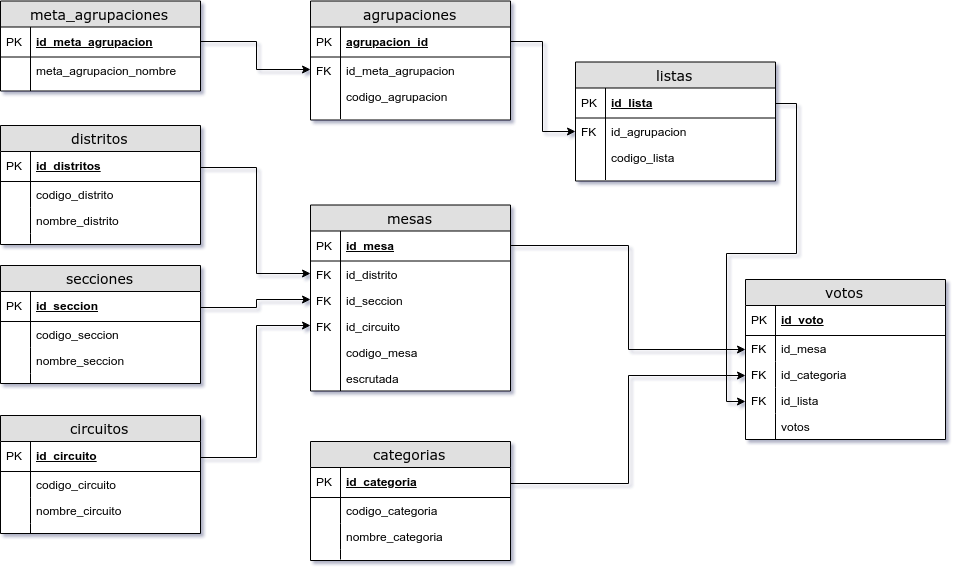
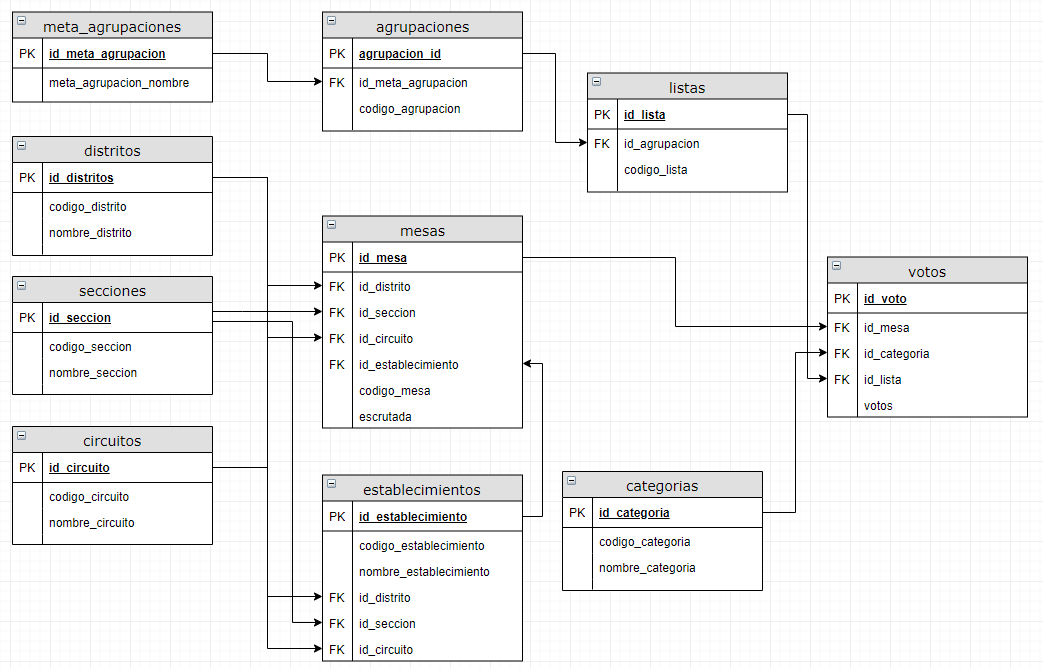
fix de controlar_mesa y README

Changed region(s): [[0.0, 0.0, 1.0, 1.0], [0.2727, 0.0, 0.8182, 0.3269], [0.2121, 0.6836, 0.2727, 0.7133]]

diff --git a/README.md b/README.md
@@ -14,11 +14,40 @@ Los datos están actualizados al `12/08/2019 05:03:06 (-03:00 UTC)` según infor
 
 **Importante**:
 
-Hay algunas inconsistencias en los datos, que en algún momento puede llamar la atención. Por empezar hay una inconsistencia entre las tres tablas de mesas descargadas del sitio oficial de los resultados:
+Hay algunas inconsistencias en los datos, que en algún momento puede llamar la atención. Por empezar hay una diferencia entre las tres tablas de mesas descargadas del sitio oficial de los resultados:
 
 * Dentro de las tablas originales, pudimos constatar, que `mesas_totales` tiene 100,142  mesas, 6 mesas menos que el resto de las tablas (`mesas_totales_lista` y `mesas_totales_agrp_politica`), esto no tiene mucho impacto, por que en el modelo de datos nuevo, usamos `mesas_totales_lista` para armar prácticamente toda la información.
 
 * La otra inconsistencia notable, es entre, ésta información y la que se publica en la página web: https://resultados.gob.ar/, la mesas escrutadas según esta página son 100,156 mesas, los datos descargados, indican en el mejor de los casos 100,148 mesas, es decir 8 mesas menos.
+
+### Establecimientos
+
+Los datos de los locales o establecimientos de votación no forman parte de los archivos compartidos por el sitio. Estos datos se construyeron por un trabajo de "scrapping" del sitio web, por lo que hay que tomarlos con cuidado. En principio, no han quedado mesas sin relacionar a un establecimiento, y un muestreo aleatorio da resultados consistentes. Para controlar todos los datos de una mesa en particular, se puede hacer:
+
+    library("tidyverse")
+    library("paso2019")
+  
+    votos %>%
+      left_join(mesas, by = "id_mesa") %>%
+      filter(codigo_mesa == "2102208133X") %>%
+      left_join(circuitos, by = "id_circuito") %>%
+      left_join(secciones, by = "id_seccion") %>%
+      left_join(distritos, by = "id_distrito") %>%
+      left_join(listas, by = "id_lista") %>%
+      left_join(agrupaciones, by = "id_agrupacion") %>%
+      left_join(meta_agrupaciones, by = "id_meta_agrupacion") %>%
+      left_join(categorias, by = "id_categoria") %>%
+      left_join(establecimientos, by = "id_establecimiento") %>%
+      select(nombre_distrito,
+             nombre_seccion,
+             nombre_circuito,
+             nombre_establecimiento,
+             codigo_mesa,
+             nombre_categoria,
+             nombre_meta_agrupacion,
+             votos) %>%
+      View()
+
 
 #### Modelo original
 
@@ -107,5 +136,6 @@ Ninguno en particular, salvo `devtools` para poder instalar este paquete, son da
 
 ## Actualizaciones
 
-* 2019/09/28 - Incorporamos view_telegrama()
+* 2019/10/05 - Versión `0.2.0` incorporamos `establecimientos`
+* 2019/08/28 - Incorporamos view_telegrama()
 * 2019/08/22 - Incorporamos los votos en blanco
